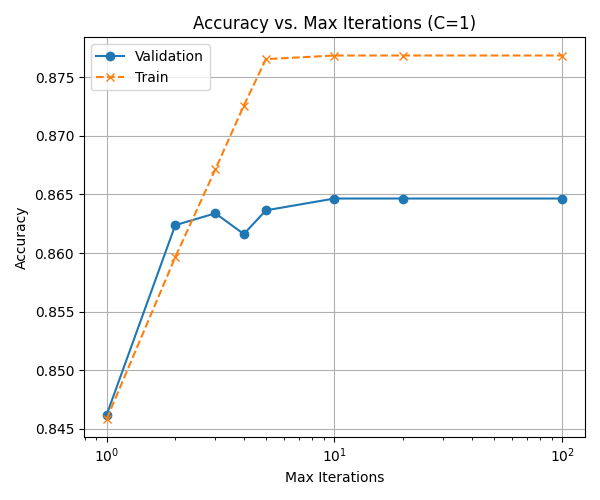
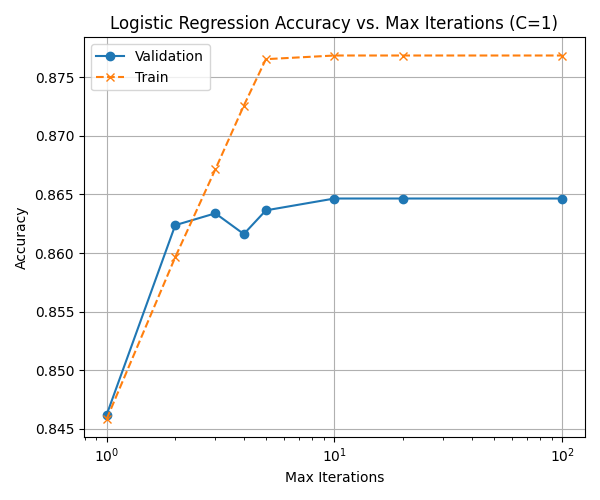
small changes

Changed region(s): [[0.18, 0.03, 0.93, 0.06]]

diff --git a/FinalProject/makeDataTable.py b/FinalProject/makeDataTable.py
@@ -1,0 +1,73 @@
+import pandas as pd
+import glob
+import os
+import matplotlib.pyplot as plt
+import matplotlib.colors as mcolors
+import numpy as np
+
+# Directory containing the CSV files
+csv_dir = "FinalProject/Plots"
+
+# Find all *_best_test_accuracies.csv files
+csv_files = glob.glob(os.path.join(csv_dir, "*_best_test_accuracies.csv"))
+
+# Collect all results
+results = []
+
+for csv_file in csv_files:
+    # Determine algorithm from filename
+    if "svm" in csv_file.lower():
+        algo = "SVM"
+    elif "logreg" in csv_file.lower():
+        algo = "Logistic Regression"
+    elif "mlp" in csv_file.lower():
+        algo = "MLP"
+    else:
+        algo = "Unknown"
+    df = pd.read_csv(csv_file)
+    for _, row in df.iterrows():
+        results.append({
+            "Algorithm": algo,
+            "Experiment": row["Experiment"],
+            "Hyperparameter": row["Best Hyperparameter"],
+            "Test Accuracy": float(row["Test Accuracy"])
+        })
+
+# Create a DataFrame for display
+results_df = pd.DataFrame(results)
+results_df = results_df[["Algorithm", "Experiment", "Hyperparameter", "Test Accuracy"]]
+# Sort by Algorithm first, then by Experiment
+results_df = results_df.sort_values(by=['Algorithm', 'Experiment'])
+
+# Normalize accuracy for color mapping
+accs = results_df["Test Accuracy"].astype(float)
+norm = plt.Normalize(accs.min(), accs.max())
+cmap = plt.get_cmap("YlGn")
+
+# Plot the table as a figure and save as PNG with higher resolution and larger size
+fig, ax = plt.subplots(figsize=(22, 2 + 2*len(results_df)))
+ax.axis('off')
+table = ax.table(
+    cellText=results_df.values,
+    colLabels=results_df.columns,
+    cellLoc='center',
+    loc='center'
+)
+table.auto_set_font_size(False)
+table.set_fontsize(24)
+table.auto_set_column_width(col=list(range(len(results_df.columns))))
+table.scale(1, 4)
+
+# Shade the "Test Accuracy" column based on value, but blend with white for lighter colors
+for i in range(len(results_df)):
+    acc = float(results_df.iloc[i]["Test Accuracy"])
+    color = cmap(norm(acc))
+    # Blend with white for lighter background (alpha controls how much white is mixed in)
+    alpha = 0.4  # Increase for lighter color (0.0 = original, 1.0 = white)
+    white = np.array([1, 1, 1, 1])
+    color = tuple((1 - alpha) * np.array(color) + alpha * white)
+    table[i+1, 3].set_facecolor(color)  # +1 for header row
+
+plt.tight_layout()
+plt.savefig("FinalProject/Plots/classifier_test_accuracies_table.png", dpi=300)
+plt.close()

diff --git a/FinalProject/classifyProteinsLogisticReg.py b/FinalProject/classifyProteinsLogisticReg.py
@@ -46,15 +46,14 @@ for max_iter in max_iters:
     print(f"[max_iter sweep] max_iter: {max_iter}, Train Acc: {train_acc_iter[-1]:.4f}, Val Acc: {val_acc_iter[-1]:.4f}")
 
 # --- Plotting and saving plots ---
-plt.figure(figsize=(12, 5))
+plt.figure(figsize=(6, 5))
 
-plt.subplot(1, 2, 1)
 plt.plot(C_values, val_acc_C, marker='o', label='Validation')
 plt.plot(C_values, train_acc_C, marker='x', linestyle='--', label='Train')
 plt.xscale('log')
 plt.xlabel('C (Inverse Regularization Strength)')
 plt.ylabel('Accuracy')
-plt.title('Accuracy vs. C (Max Iterations=500)')
+plt.title('Logistic Regression Accuracy vs. C (Max Iterations=500)')
 plt.legend()
 plt.grid(True)
 plt.tight_layout()
@@ -67,7 +66,7 @@ plt.xscale('log')
 
 plt.xlabel('Max Iterations')
 plt.ylabel('Accuracy')
-plt.title('Accuracy vs. Max Iterations (C=1)')
+plt.title('Logistic Regression Accuracy vs. Max Iterations (C=1)')
 plt.legend()
 plt.grid(True)
 plt.tight_layout()
